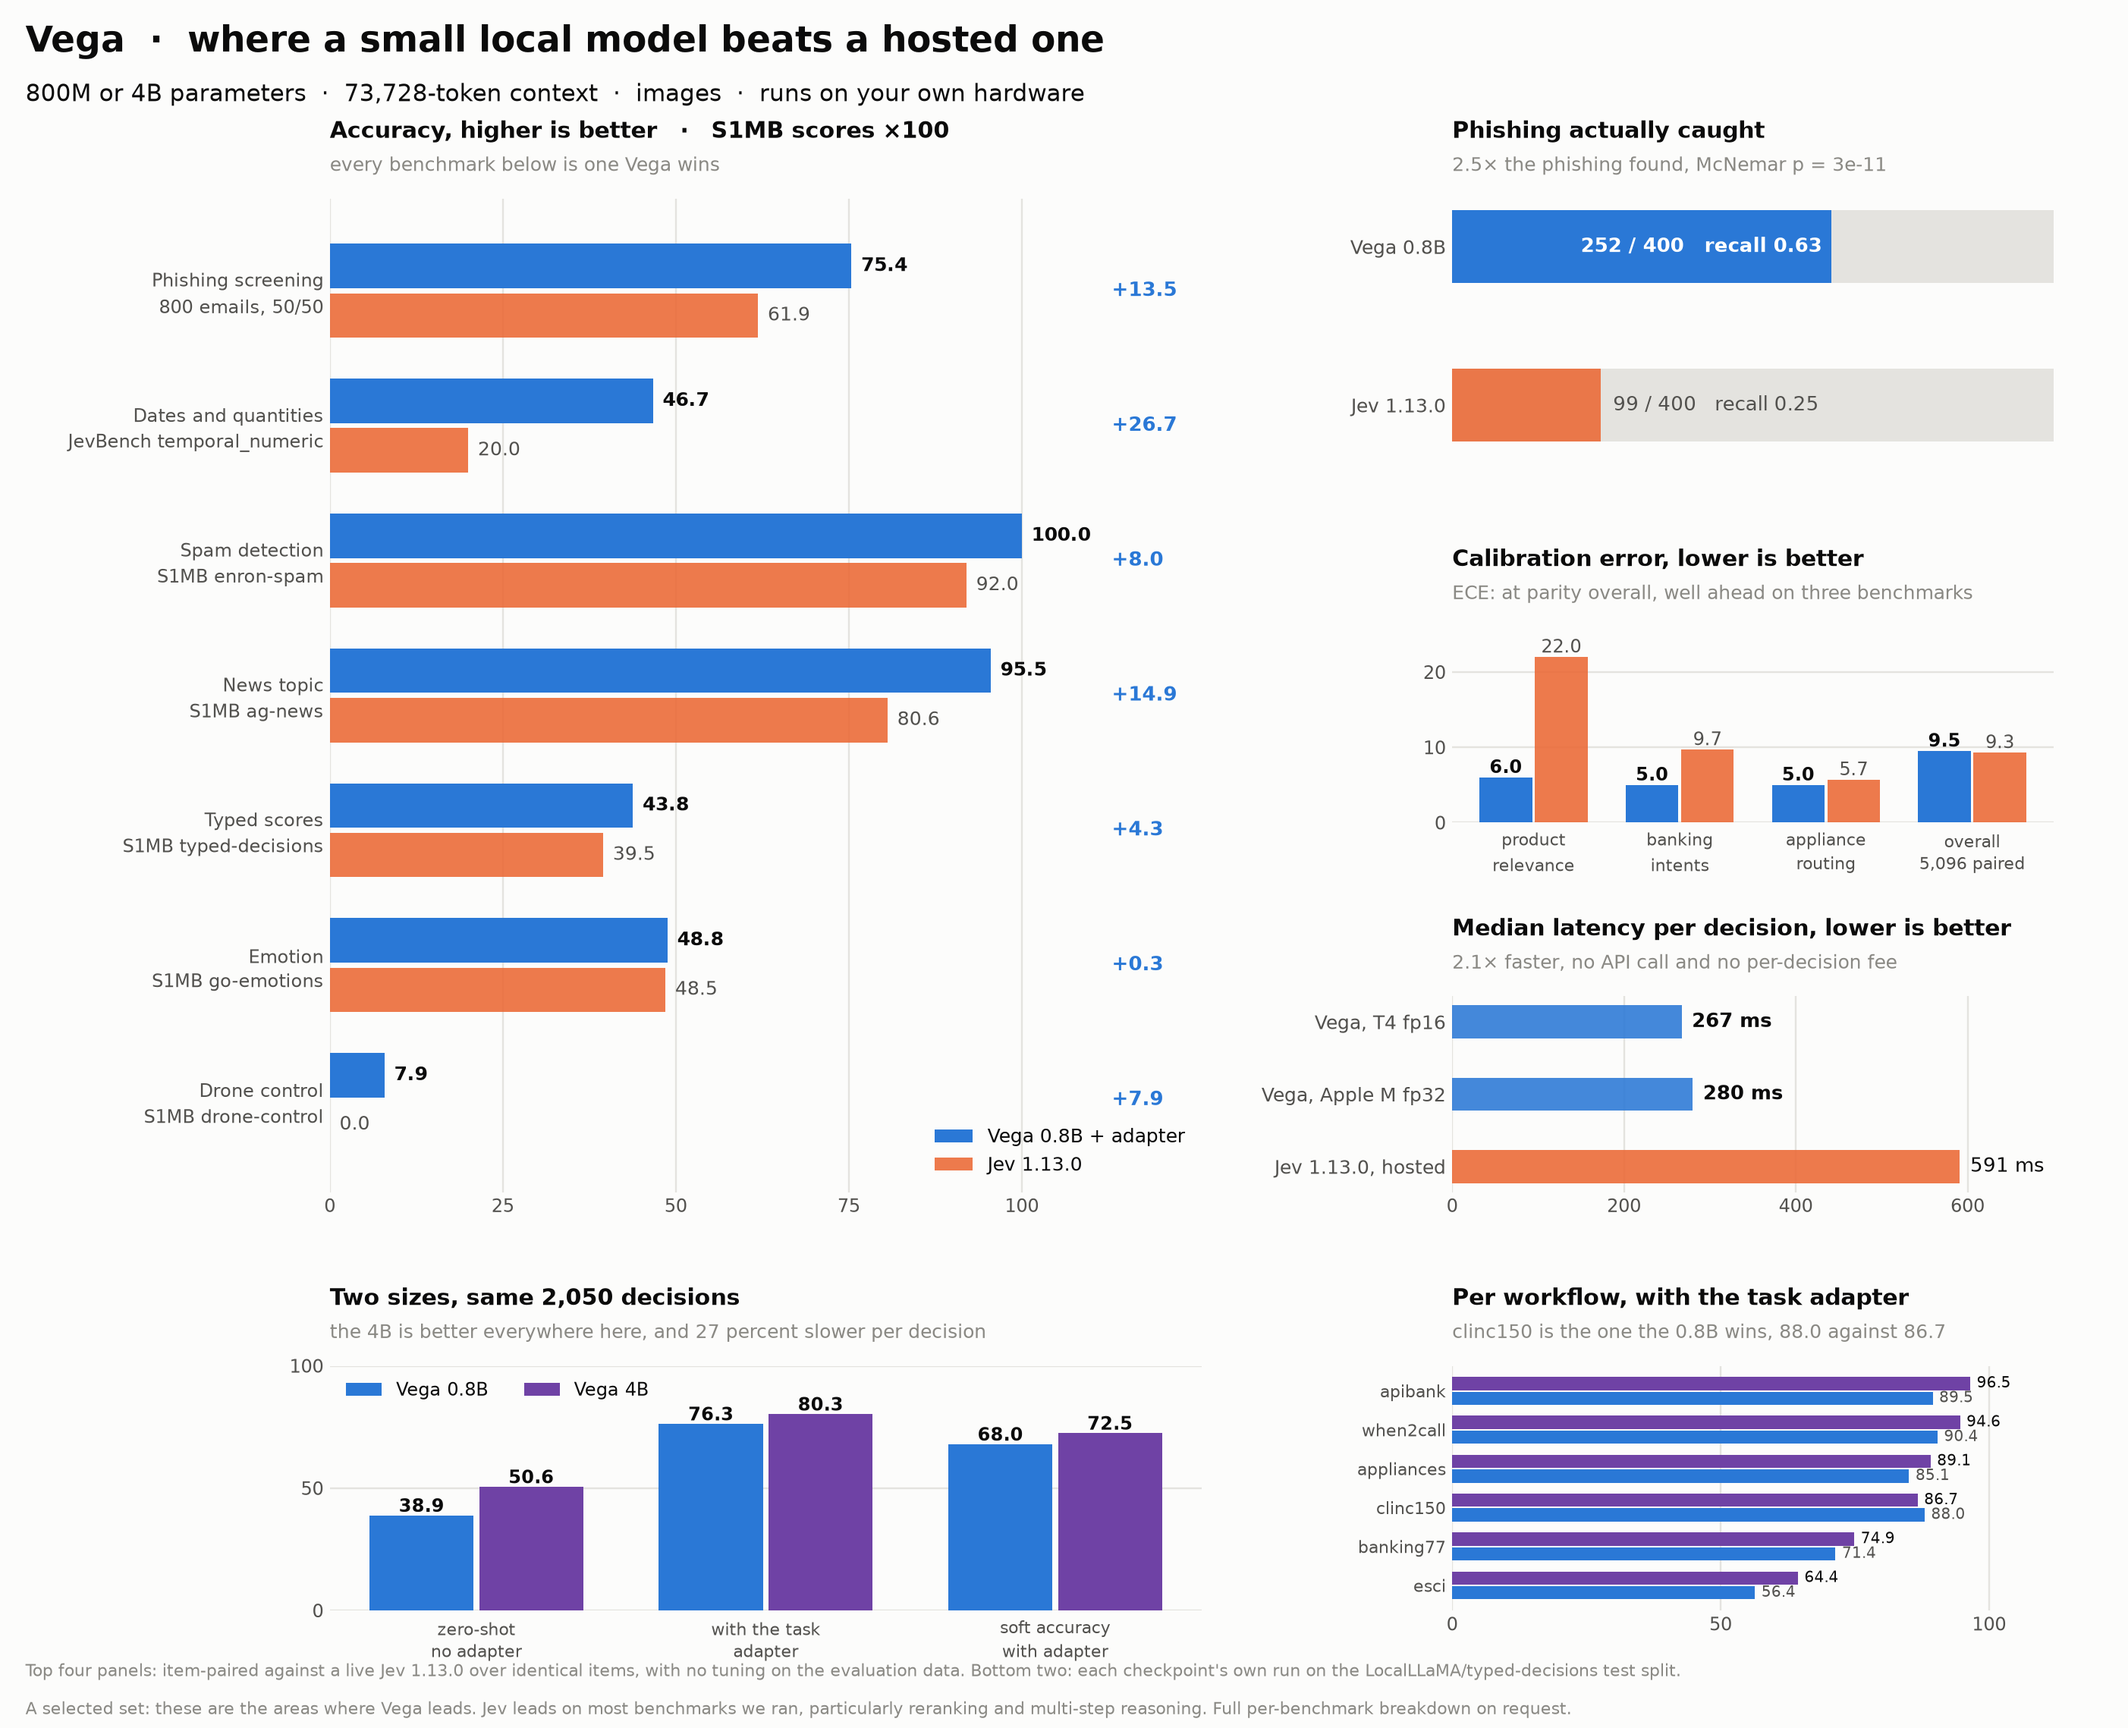
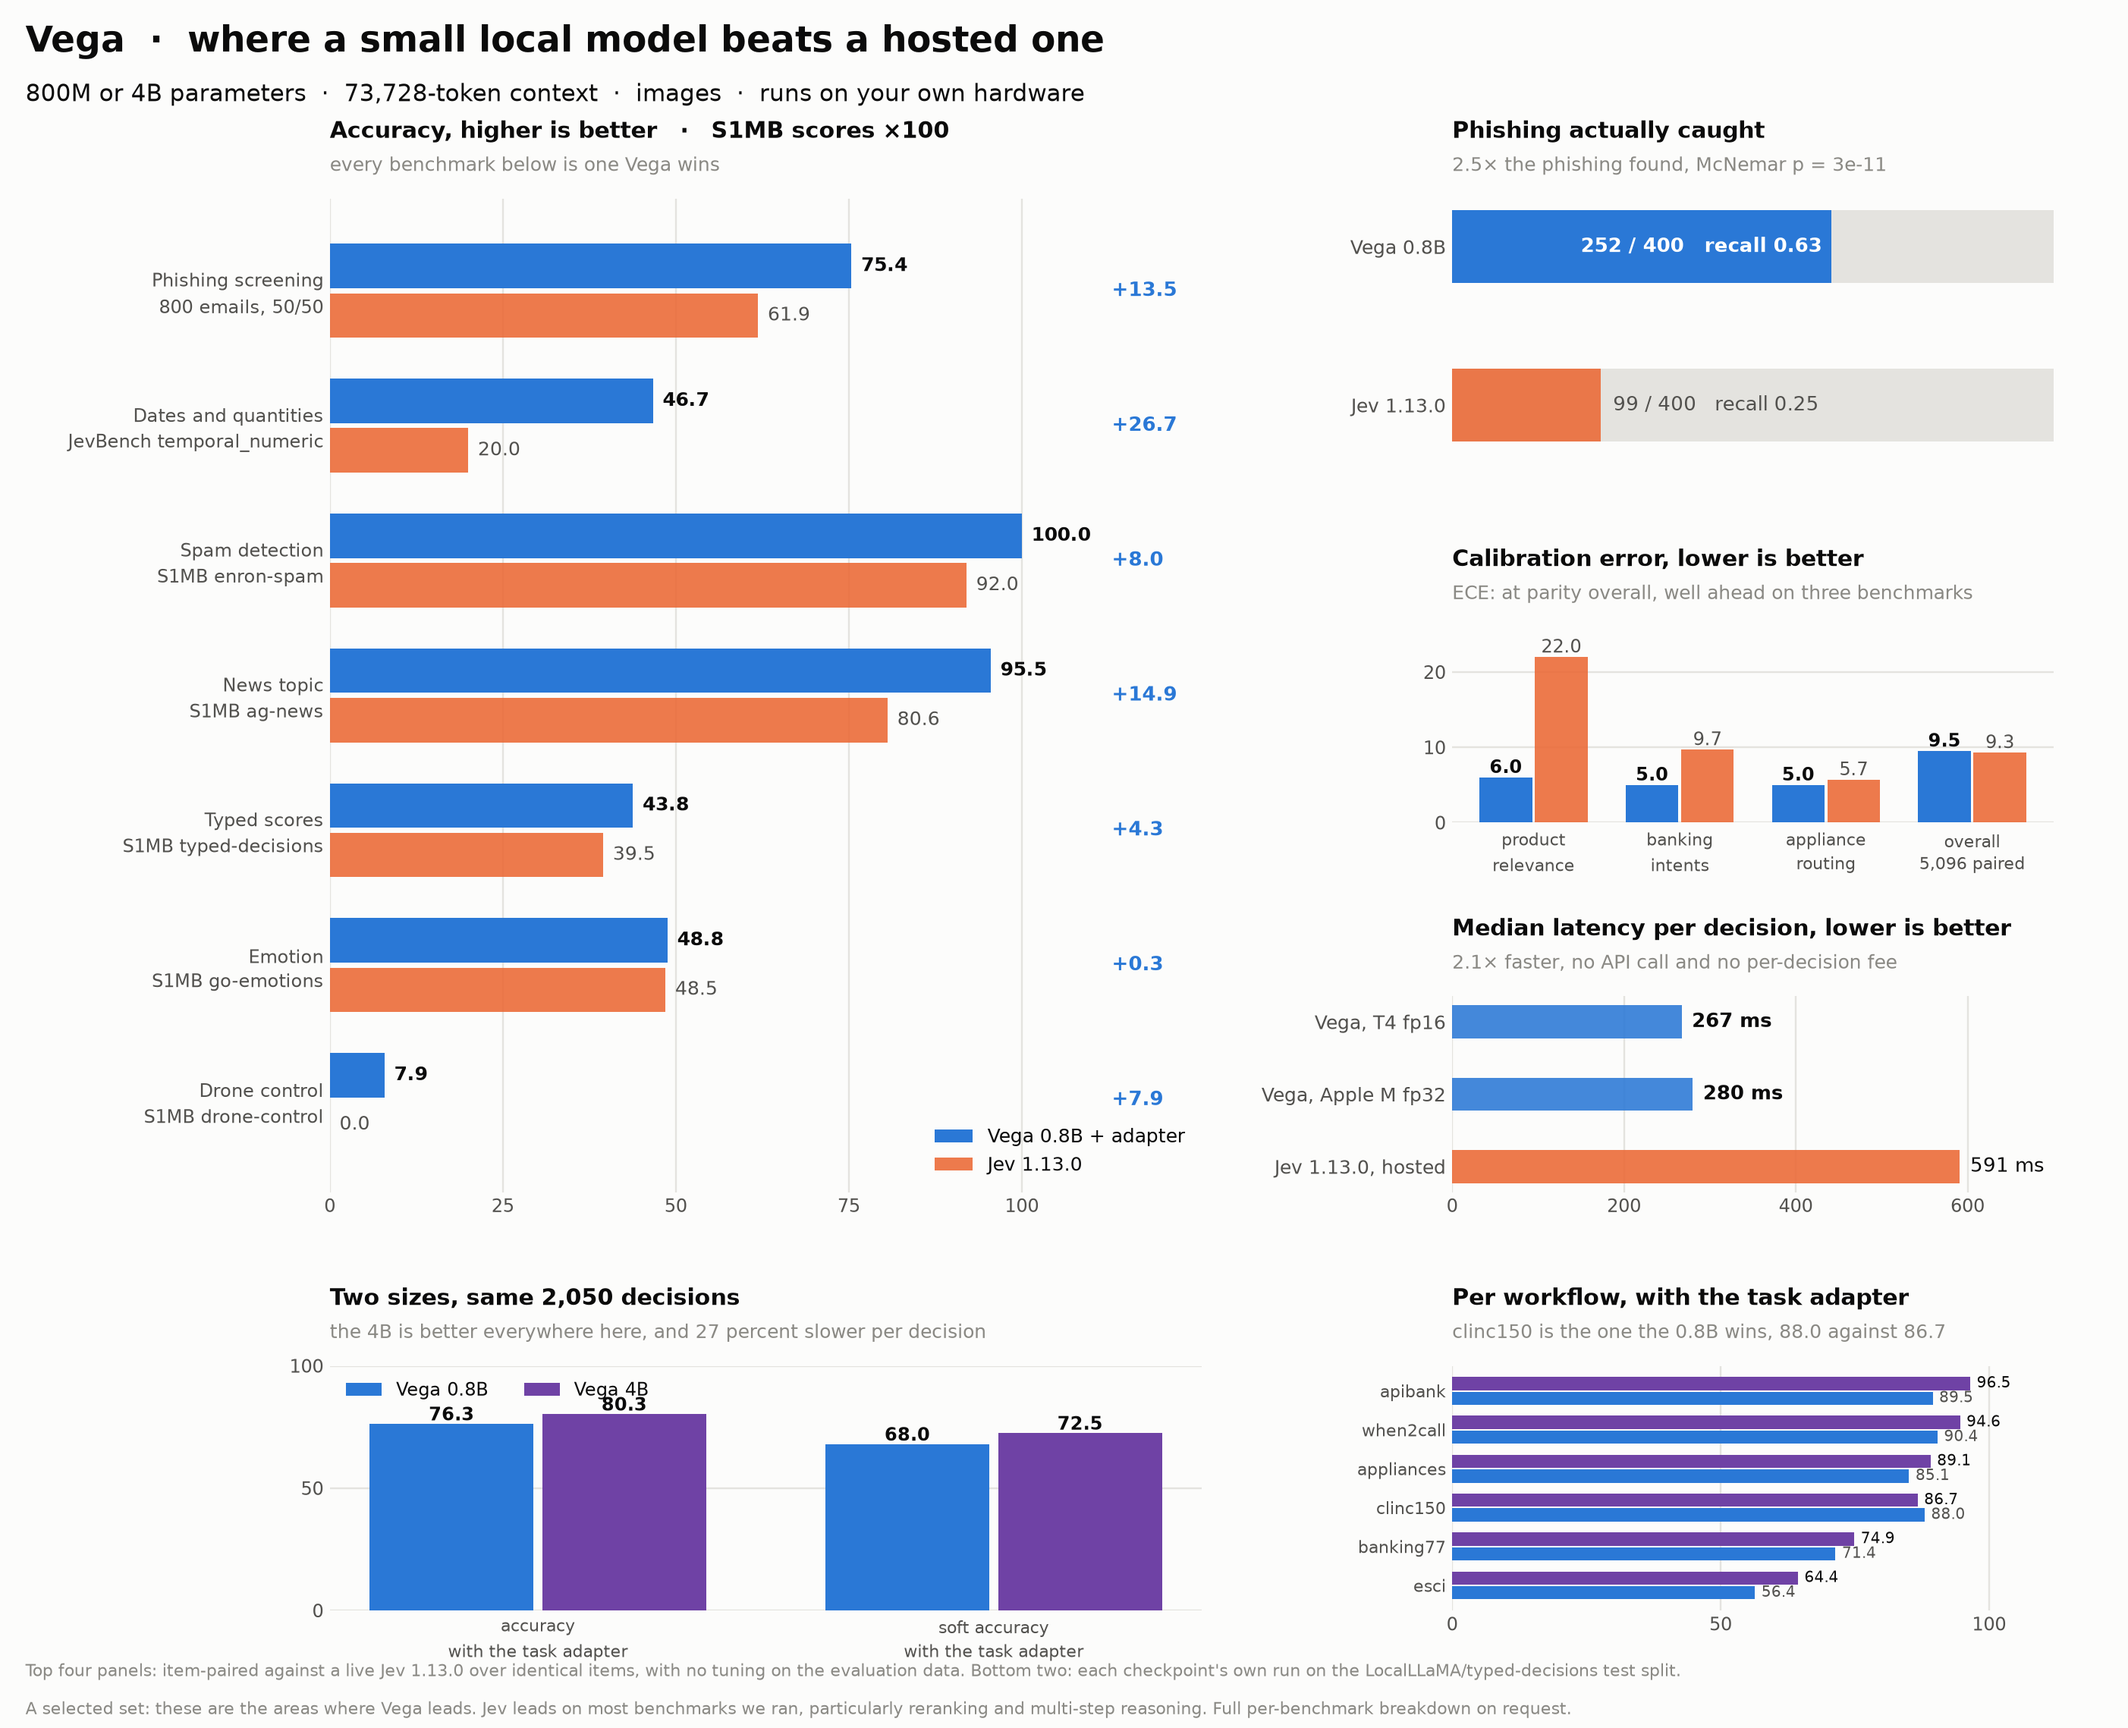
0.2.1: drop the zero-shot row from the size comparison
The shipped checkpoints come with the task adapter, so an accuracy measured
without it was describing a configuration nobody runs. It is out of the README,
the model card, the figure and the blog post. Everything still there is
measured the same way it was before: same split, same harness, same checkpoint.

The full tables including the before numbers remain in each checkpoint's own
eval/typed_decisions.md, which is where someone comparing fine-tuning deltas
would look.

Changed region(s): [[0.1551, 0.8104, 0.5273, 0.9662]]

diff --git a/vegaml/__init__.py b/vegaml/__init__.py
@@ -26,7 +26,7 @@ from .hub import fetch
 from .ttt import TTTHead
 
 __all__ = ["load", "Vega", "TTTHead", "fetch", "__version__"]
-__version__ = "0.2.0"
+__version__ = "0.2.1"
 
 MODES = ("engine", "ttt", "both")
 

diff --git a/README.md b/README.md
@@ -104,7 +104,6 @@ gives you the 0.8B, which is the default and the model every Jev comparison on t
 | backbone, frozen | Qwen3.5-0.8B | Qwen3.5-4B |
 | engine, trained | 14.3M params, 57 MB | 30.9M params, 124 MB |
 | task adapter | 0.84M params | 1.43M params |
-| zero-shot accuracy | 0.389 | **0.506** |
 | with the task adapter | 0.763 | **0.803** |
 | soft accuracy | 0.680 | **0.725** |
 | calibration error | 0.026 | **0.019** |
